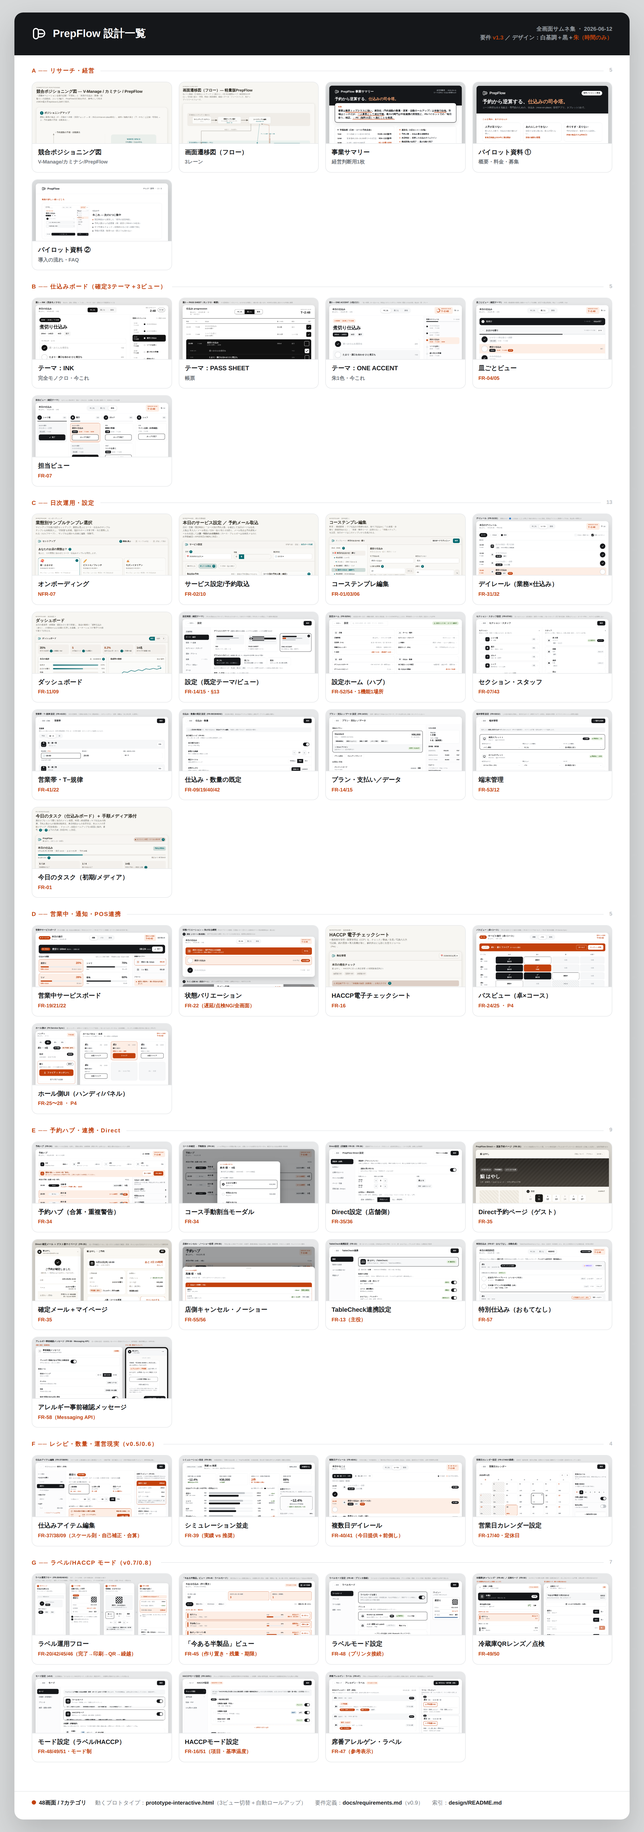
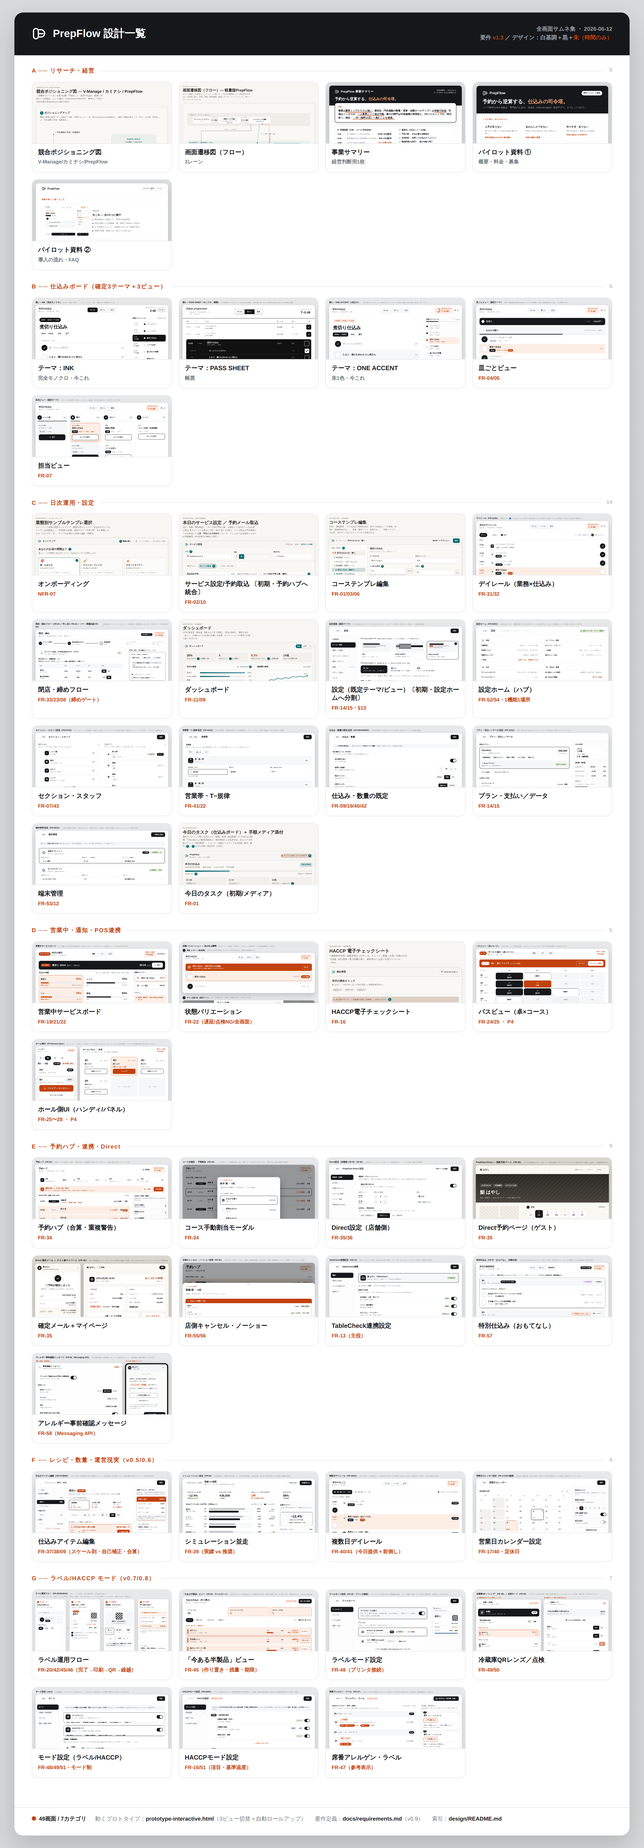
design: 閉店・締めフロー（FR-33/23/08）追加＋索引の世代ラベル注記
- p2-wireframe-close-flow: 締めゲート5ステップ（クローズ点検→衛生記録→
  繰越/廃棄→申し送り→日次サマリー）。FR-33クローズフロー／FR-08パー・廃棄
  記録（繰越/廃棄→FR-09自己補正・FR-42繰越へ環流）／FR-23申し送り（翌日
  サービス設定へ自動表示）を1画面で充足。朝↔夜の運用ループが閉じる
- overview-gallery 49画面に更新、README・requirements §12 に反映
- 世代ラベル注記：service-setup→予約ハブ統合、settings→設定ホーム分割、
  haccp-checklist タグを FR-16 に統一（a/b/c）
- coverage-matrix を更新（✓53/△2/✗3・S優先の未充足ゼロ）

https://claude.ai/code/session_018mZZ112uFbi6TDTQG5iJF9

diff --git a/design/p2-wireframe-close-flow.html b/design/p2-wireframe-close-flow.html
@@ -1,0 +1,166 @@
+<!doctype html>
+<html lang="ja"><head><meta charset="UTF-8"/><meta name="viewport" content="width=device-width, initial-scale=1.0"/>
+<title>閉店・締めフロー（FR-33/23/08）</title>
+<link href="https://api.fontshare.com/v2/css?f[]=satoshi@400,500,700,900&display=swap" rel="stylesheet">
+<style>
+  :root{--ink:#15171a;--g2:#70757b;--g3:#c2c6ca;--g4:#e9ebed;--g5:#f6f7f8;
+        --time:#c2410c;--time-s:#fdeee5;--ok:#3a6a2a;--ok-s:#e4efdd;--font:'Satoshi',sans-serif}
+  *{box-sizing:border-box;margin:0;padding:0}
+  body{font-family:var(--font);background:#e7e8e9;color:var(--ink);-webkit-font-smoothing:antialiased;padding:26px;line-height:1.4}
+  .cap{max-width:1180px;margin:0 auto 12px;display:flex;align-items:baseline;gap:12px}
+  .cap b{font-size:18px}.cap span{color:#8a8a8a;font-size:13px}
+  .tab{max-width:1180px;margin:0 auto;height:812px;background:#fff;border-radius:24px;box-shadow:0 30px 60px rgba(0,0,0,.16);overflow:hidden;display:flex;flex-direction:column}
+  .bar{display:flex;align-items:center;justify-content:space-between;padding:16px 28px;border-bottom:1px solid var(--g4)}
+  .bL h1{font-size:19px;font-weight:900}.bL .sub{font-size:12.5px;color:var(--g2)}
+  .bR{display:flex;align-items:center;gap:12px}
+  .gate{font-size:10.5px;font-weight:900;color:#fff;background:var(--ink);padding:5px 11px;border-radius:999px}
+  .cd{display:flex;align-items:center;gap:8px;background:var(--time-s);border-radius:12px;padding:8px 14px}
+  .cd small{display:block;font-size:10px;color:var(--time);font-weight:700;letter-spacing:.08em}
+  .cd b{font-size:18px;font-weight:900;color:var(--time);font-variant-numeric:tabular-nums}
+  /* stepper (FR-33 = 1本の流れ) */
+  .steps{display:flex;align-items:center;padding:15px 28px;border-bottom:1px solid var(--g4);gap:0}
+  .stp{display:flex;align-items:center;gap:10px}
+  .stp .n{width:30px;height:30px;border-radius:50%;display:grid;place-items:center;font-size:13px;font-weight:900;flex:none;border:2px solid var(--g3);color:var(--g2);background:#fff}
+  .stp.done .n{background:var(--ink);border-color:var(--ink);color:#fff}
+  .stp.now .n{border-color:var(--ink);color:var(--ink);border-width:2.6px}
+  .stp .tx b{font-size:12.5px;font-weight:900;display:block;line-height:1.15}
+  .stp.pend .tx b{color:var(--g3)}
+  .stp .tx small{font-size:9.5px;color:var(--g2)}
+  .stp .n svg{width:15px;height:15px;stroke:#fff;stroke-width:3;fill:none;stroke-linecap:round;stroke-linejoin:round}
+  .seg-ln{flex:1;height:2px;background:var(--g4);margin:0 12px}
+  .seg-ln.done{background:var(--ink)}
+  /* main two columns */
+  .main{flex:1;display:grid;grid-template-columns:1fr 372px;gap:0;overflow:hidden}
+  .col{overflow:auto;padding:18px 24px 22px}
+  .colL{border-right:1px solid var(--g4)}
+  .h2{font-size:13.5px;font-weight:900;display:flex;align-items:center;gap:8px;margin-bottom:4px}
+  .h2 .fr{font-size:9.5px;font-weight:900;color:var(--g2);background:var(--g5);border-radius:999px;padding:3px 8px}
+  .h2 .auto{font-size:9.5px;font-weight:900;color:var(--ok);background:var(--ok-s);border-radius:999px;padding:3px 8px}
+  .lead{font-size:11.5px;color:var(--g2);margin-bottom:12px}
+  .lead b{color:var(--ink)}
+  /* par/waste table (FR-08) */
+  .tbl{border:1.5px solid var(--g4);border-radius:14px;overflow:hidden}
+  .tr{display:grid;grid-template-columns:1.5fr .7fr .7fr .8fr 1.3fr;align-items:center;gap:8px;padding:11px 14px;border-bottom:1px solid var(--g4)}
+  .tr:last-child{border-bottom:none}
+  .tr.hd{background:var(--g5)}
+  .tr.hd span{font-size:10px;font-weight:900;color:var(--g2);letter-spacing:.03em}
+  .tr .nm{font-size:13.5px;font-weight:700}
+  .tr .nm small{display:block;font-size:10px;color:var(--g2);font-weight:500}
+  .tr .num{font-size:13px;font-weight:700;font-variant-numeric:tabular-nums}
+  .tr .left{font-size:13px;font-weight:900;font-variant-numeric:tabular-nums}
+  .tr .left.warn{color:var(--time)}
+  .seg{display:inline-flex;border:1.5px solid var(--g4);border-radius:9px;overflow:hidden}
+  .seg button{border:none;background:#fff;font-family:var(--font);font-size:11px;font-weight:900;padding:7px 10px;cursor:pointer;color:var(--g2);border-right:1.5px solid var(--g4)}
+  .seg button:last-child{border-right:none}
+  .seg button.on{background:var(--ink);color:#fff}
+  .feed{display:flex;align-items:center;gap:8px;font-size:11px;color:var(--g2);background:var(--g5);border-radius:11px;padding:10px 13px;margin-top:10px}
+  .feed b{color:var(--ink)}
+  .feed svg{width:14px;height:14px;stroke:var(--ok);flex:none}
+  .done-sec{display:flex;align-items:center;gap:12px;border:1.5px solid var(--g4);border-radius:13px;padding:12px 15px;margin-bottom:10px;background:#fff}
+  .done-sec .ck{width:28px;height:28px;border-radius:50%;background:var(--ok-s);display:grid;place-items:center;flex:none}
+  .done-sec .ck svg{width:15px;height:15px;stroke:var(--ok);stroke-width:3;fill:none;stroke-linecap:round;stroke-linejoin:round}
+  .done-sec .t b{font-size:13.5px;font-weight:900;display:block}.done-sec .t small{font-size:10.5px;color:var(--g2)}
+  .done-sec .st{margin-left:auto;font-size:10.5px;font-weight:900;color:var(--ok);background:var(--ok-s);border-radius:999px;padding:5px 11px}
+  /* right col: handover note (FR-23) + summary */
+  .card{border:1.5px solid var(--g4);border-radius:14px;padding:15px 16px;margin-bottom:14px}
+  .card.now{border-color:var(--ink)}
+  .chips{display:flex;flex-wrap:wrap;gap:6px;margin:8px 0 4px}
+  .chip{font-size:11px;font-weight:800;background:var(--g5);border:1.5px solid var(--g4);border-radius:999px;padding:5px 11px}
+  .chip b{font-variant-numeric:tabular-nums}
+  .note{border:1.5px dashed var(--g3);border-radius:11px;padding:12px 13px;font-size:12.5px;color:var(--ink);line-height:1.55;min-height:78px;margin-top:8px}
+  .note .ph{color:var(--g3)}
+  .auto-to{display:flex;align-items:center;gap:7px;font-size:10.5px;color:var(--g2);margin-top:9px}
+  .auto-to svg{width:13px;height:13px;stroke:var(--ink);flex:none}
+  .by{display:flex;align-items:center;gap:7px;margin-top:10px}
+  .by .av{width:26px;height:26px;border-radius:50%;background:var(--g5);display:grid;place-items:center;font-size:11px;font-weight:900}
+  .by small{font-size:10.5px;color:var(--g2)}
+  .sum{display:grid;grid-template-columns:1fr 1fr;gap:9px;margin-top:6px}
+  .sm{border:1.5px solid var(--g4);border-radius:11px;padding:10px 12px}
+  .sm small{font-size:10px;color:var(--g2);font-weight:700;display:block}
+  .sm b{font-size:21px;font-weight:900;font-variant-numeric:tabular-nums}
+  .sm b em{font-size:12px;font-style:normal;color:var(--g2);font-weight:700}
+  .sm .lt{color:var(--time)}
+  .exp{display:flex;gap:8px;margin-top:10px}
+  .exp button{flex:1;border:1.5px solid var(--g4);background:#fff;font-family:var(--font);font-size:11.5px;font-weight:900;color:var(--ink);border-radius:9px;padding:9px;cursor:pointer}
+  /* footer */
+  .foot{border-top:1px solid var(--g4);padding:14px 28px;display:flex;align-items:center;justify-content:space-between;background:#fff}
+  .foot small{font-size:11px;color:var(--g2)}
+  .cta{display:inline-flex;align-items:center;gap:9px;background:var(--ink);color:#fff;font-family:var(--font);font-size:14.5px;font-weight:900;border:none;border-radius:13px;padding:13px 24px;cursor:pointer}
+  .cta svg{width:17px;height:17px;stroke:#fff;stroke-width:2.6;fill:none;stroke-linecap:round;stroke-linejoin:round}
+  svg{stroke-width:2.4;fill:none;stroke-linecap:round;stroke-linejoin:round}
+</style></head>
+<body>
+  <div class="cap"><b>閉店・締めフロー（FR-33 ／ 申し送り FR-23 ／ パー・廃棄記録 FR-08）</b><span>1日の締めゲート：クローズチェック→衛生記録→繰越/廃棄→申し送り→日次サマリーを1本の流れで</span></div>
+  <div class="tab">
+
+    <div class="bar">
+      <div class="bL"><h1>閉店・締め</h1><div class="sub">鮨 はやし ・ 6/11(木) 夜の部 ・ 24名 ・ 締めゲート</div></div>
+      <div class="bR"><span class="gate">1日の締めゲート</span><div class="cd"><div><small>CLOSE 22:30</small><b>T＋0:42</b></div></div></div>
+    </div>
+
+    <!-- FR-33: 1本の流れ -->
+    <div class="steps">
+      <div class="stp done"><div class="n"><svg viewBox="0 0 24 24"><path d="M5 12l5 5 9-10"/></svg></div><div class="tx"><b>クローズ点検</b><small>完了 6/6</small></div></div>
+      <div class="seg-ln done"></div>
+      <div class="stp done"><div class="n"><svg viewBox="0 0 24 24"><path d="M5 12l5 5 9-10"/></svg></div><div class="tx"><b>衛生記録(HACCP)</b><small>完了 ・ PDF化済</small></div></div>
+      <div class="seg-ln done"></div>
+      <div class="stp now"><div class="n">3</div><div class="tx"><b>繰越/廃棄</b><small>記録中</small></div></div>
+      <div class="seg-ln"></div>
+      <div class="stp pend"><div class="n">4</div><div class="tx"><b>申し送り</b><small>未</small></div></div>
+      <div class="seg-ln"></div>
+      <div class="stp pend"><div class="n">5</div><div class="tx"><b>日次サマリー</b><small>自動</small></div></div>
+    </div>
+
+    <div class="main">
+
+      <!-- LEFT: par/waste record (FR-08) -->
+      <div class="col colL">
+        <div class="done-sec"><div class="ck"><svg viewBox="0 0 24 24"><path d="M5 12l5 5 9-10"/></svg></div><div class="t"><b>① クローズ点検 ／ ② 衛生記録(HACCP・FR-16)</b><small>消火・施錠・冷蔵庫温度・手洗い記録 … 完了</small></div><span class="st">完了</span></div>
+
+        <div class="h2">③ 本日のパー・廃棄記録 <span class="fr">FR-08</span></div>
+        <div class="lead"><b>予約◯名 → 作った → 余った</b> を記録。余りは<b>繰越（賞味期限内）</b>か<b>廃棄</b>を選択。</div>
+        <div class="tbl">
+          <div class="tr hd"><span>品目</span><span>予約</span><span>作った</span><span>余り</span><span>判定</span></div>
+          <div class="tr"><div class="nm">煮切り<small>全コース合算</small></div><div class="num">24名</div><div class="num">200ml</div><div class="left">65ml</div>
+            <div class="seg"><button class="on">繰越</button><button>廃棄</button></div></div>
+          <div class="tr"><div class="nm">鯛の昆布締め<small>本日限り</small></div><div class="num">24名</div><div class="num">14枚</div><div class="left warn">2枚</div>
+            <div class="seg"><button>繰越</button><button class="on">廃棄</button></div></div>
+          <div class="tr"><div class="nm">一番だし</div><div class="num">24名</div><div class="num">5.0L</div><div class="left">0.4L</div>
+            <div class="seg"><button class="on">繰越</button><button>廃棄</button></div></div>
+          <div class="tr"><div class="nm">穴子のツメ</div><div class="num">24名</div><div class="num">600ml</div><div class="left">120ml</div>
+            <div class="seg"><button class="on">繰越</button><button>廃棄</button></div></div>
+        </div>
+        <div class="feed"><svg viewBox="0 0 24 24"><path d="M21 12a9 9 0 11-3-6.7M21 5v4h-4"/></svg>この実績は<b>自己補正レシピ（FR-09）</b>へ環流し、明日以降の推奨量を調整します。</div>
+        <div class="feed"><svg viewBox="0 0 24 24"><path d="M5 12l5 5 9-10"/></svg>繰越分（煮切り65ml・だし0.4L・ツメ120ml）は<b>翌日の推奨量から自動で差引（FR-42）</b>。</div>
+      </div>
+
+      <!-- RIGHT: handover note (FR-23) + summary -->
+      <div class="col">
+        <div class="h2">④ 申し送り（引き継ぎノート）<span class="fr">FR-23</span></div>
+        <div class="card now">
+          <div style="font-size:11px;font-weight:900;color:var(--g2)">残仕込み（繰越から自動転記）</div>
+          <div class="chips"><span class="chip">煮切り <b>65ml</b></span><span class="chip">一番だし <b>0.4L</b></span><span class="chip">ツメ <b>120ml</b></span></div>
+          <div class="note">明日は<b>貸切8名が17:30追加</b>。穴子は早めに仕込み。<br>2番冷蔵の真空が1袋ふくらみ → 朝に確認。<span class="ph">｜タップで追記…</span></div>
+          <div class="by"><span class="av">親</span><small>記録者：親方（タップで変更）</small></div>
+          <div class="auto-to"><svg viewBox="0 0 24 24"><path d="M5 12h14M13 6l6 6-6 6"/></svg><b style="color:var(--ink)">翌日のサービス設定に自動表示</b>されます</div>
+        </div>
+
+        <div class="h2">⑤ 日次サマリー <span class="auto">自動集計</span></div>
+        <div class="sum">
+          <div class="sm"><small>仕込み達成率</small><b>94<em>%</em></b></div>
+          <div class="sm"><small>遅延タスク</small><b class="lt">1<em>件</em></b></div>
+          <div class="sm"><small>客数</small><b>24<em>名</em></b></div>
+          <div class="sm"><small>廃棄</small><b>2<em>点</em></b></div>
+        </div>
+        <div class="exp"><button>CSV出力</button><button>日報PDF</button></div>
+      </div>
+
+    </div>
+
+    <div class="foot">
+      <small>締めゲート完了で本日をクローズ。繰越・申し送りは明日のボードに反映。<b>未記録があれば確認</b>。</small>
+      <button class="cta"><svg viewBox="0 0 24 24"><path d="M5 12l5 5 9-10"/></svg>締めゲートを完了して退勤</button>
+    </div>
+
+  </div>
+</body></html>

diff --git a/design/overview-gallery.html b/design/overview-gallery.html
@@ -67,14 +67,15 @@
 
     <!-- C daily ops -->
     <div class="sec">
-      <div class="sk"><span class="n">C ── 日次運用・設定</span><span class="ln"></span><span class="ct">13</span></div>
+      <div class="sk"><span class="n">C ── 日次運用・設定</span><span class="ln"></span><span class="ct">14</span></div>
       <div class="grid">
         <div class="card"><div class="thumb"><img src="p0-wireframe-onboarding.png"></div><div class="lab"><b>オンボーディング</b><span class="tag fr">NFR-07</span></div></div>
-        <div class="card"><div class="thumb"><img src="p0-wireframe-service-setup.png"></div><div class="lab"><b>サービス設定/予約取込</b><span class="tag fr">FR-02/10</span></div></div>
+        <div class="card"><div class="thumb"><img src="p0-wireframe-service-setup.png"></div><div class="lab"><b>サービス設定/予約取込 〔初期・予約ハブへ統合〕</b><span class="tag fr">FR-02/10</span></div></div>
         <div class="card"><div class="thumb"><img src="p1-wireframe-template-editor.png"></div><div class="lab"><b>コーステンプレ編集</b><span class="tag fr">FR-01/03/06</span></div></div>
         <div class="card"><div class="thumb"><img src="p1-wireframe-dayrail.png"></div><div class="lab"><b>デイレール（業務×仕込み）</b><span class="tag fr">FR-31/32</span></div></div>
+        <div class="card"><div class="thumb"><img src="p2-wireframe-close-flow.png"></div><div class="lab"><b>閉店・締めフロー</b><span class="tag fr">FR-33/23/08（締めゲート）</span></div></div>
         <div class="card"><div class="thumb"><img src="p1-wireframe-dashboard.png"></div><div class="lab"><b>ダッシュボード</b><span class="tag fr">FR-11/09</span></div></div>
-        <div class="card"><div class="thumb"><img src="p1-wireframe-settings.png"></div><div class="lab"><b>設定（既定テーマ/ビュー）</b><span class="tag fr">FR-14/15・§13</span></div></div>
+        <div class="card"><div class="thumb"><img src="p1-wireframe-settings.png"></div><div class="lab"><b>設定（既定テーマ/ビュー）〔初期・設定ホームへ分割〕</b><span class="tag fr">FR-14/15・§13</span></div></div>
         <div class="card"><div class="thumb"><img src="p1-wireframe-settings-home.png"></div><div class="lab"><b>設定ホーム（ハブ）</b><span class="tag fr">FR-52/54・1機能1場所</span></div></div>
         <div class="card"><div class="thumb"><img src="p1-wireframe-staff-sections.png"></div><div class="lab"><b>セクション・スタッフ</b><span class="tag fr">FR-07/43</span></div></div>
         <div class="card"><div class="thumb"><img src="p1-wireframe-service-periods.png"></div><div class="lab"><b>営業帯・T−規律</b><span class="tag fr">FR-41/22</span></div></div>
@@ -140,7 +141,7 @@
 
   </div>
   <div class="foot">
-    <span><span class="dot"></span><b>48画面 / 7カテゴリ</b></span>
+    <span><span class="dot"></span><b>49画面 / 7カテゴリ</b></span>
     <span>動くプロトタイプ：<b>prototype-interactive.html</b>（3ビュー切替＋自動ロールアップ）</span>
     <span>要件定義：<b>docs/requirements.md</b>（v0.9）</span>
     <span>索引：<b>design/README.md</b></span>

diff --git a/docs/coverage-matrix.md b/docs/coverage-matrix.md
@@ -2,18 +2,20 @@
 
 | 項目 | 内容 |
 |---|---|
-| 対象 | 要件定義 v1.3（FR-01〜58）× design/ 全画面（48画面）|
-| 日付 | 2026-06-12 |
+| 対象 | 要件定義 v1.3（FR-01〜58）× design/ 全画面（49画面）|
+| 日付 | 2026-06-12（updated）|
 | 目的 | 要件と画面設計のトレーサビリティ確認。**抜け漏れ（未ワイヤー化FR）**と**重複（機構共有・世代重複）**の棚卸し |
 | 凡例 | ✓=専用ワイヤーあり ／ △=別画面に内包・テーマ/アンカーで代替（専用画面なし）／ ✗=ワイヤー無し |
+
+> **更新（2026-06-12）**：推奨アクション①②を反映。**「閉店・締めフロー」ワイヤー新規作成**（`p2-wireframe-close-flow`）で **FR-33/23/08 を充足**。索引の**世代ラベル注記（a/b/c）も反映済み**。下表・サマリーは反映後の値。
 
 ---
 
 ## 0. サマリー（結論）
 
-- **FR充足率：50/58 が専用ワイヤーあり（✓）。** 残り8件は △4・✗4。
-- **致命的な抜けは無し。** 未充足は全て **優先度C または 後段フェーズ（P2.5/P3）** に集中。例外は下記「閉店クラスタ」。
-- **最大の単一ギャップ＝「閉店・締めフロー」**。FR-33（クローズフロー・**S**/P2）／FR-23（引き継ぎノート・P2）／FR-08（パー/廃棄記録・**S**/P1）の3つが**1枚も専用画面を持たない**（dayrailにアンカー言及のみ）。→ **「閉店・締め」ワイヤー1枚で3件まとめて解消可能**。
+- **FR充足率：53/58 が専用ワイヤーあり（✓）。** 残り5件は △2・✗3。
+- **致命的な抜けは無し。** 未充足は全て **優先度C かつ 後段フェーズ（P2.5/P3）または将来** に集中。
+- **～~最大の単一ギャップ＝「閉店・締めフロー」~~ → 解消済み。** FR-33（クローズフロー・S/P2）／FR-23（引き継ぎノート・P2）／FR-08（パー/廃棄記録・S/P1）を **`p2-wireframe-close-flow` 1枚で一括充足**（締めゲート＝5ステップ：クローズ点検→衛生記録→繰越/廃棄→申し送り→日次サマリー）。朝↔夜の運用ループが画面上で閉じた。
 - **「重複FR」は実害なし。** ID重複（同番号の二重定義）はゼロ。見かけ上の重複は全て **(a) 意図した機構共有**（追い仕込みエンジン／WasteLog／席別アレルギー供給源）か **(b) 画面の世代置換**（初期案→確定テーマ）であり、要件本文に注記済み。本書で一覧化。
 
 ---
@@ -29,7 +31,7 @@
 | FR-05 | チェックオフ→ロールアップ | M/P0 | ✓ | redesign2-3-oneaccent, view-dishes |
 | FR-06 | 逆算タイムライン | M/P1 | ✓ | oneaccent, todaytask, template-editor |
 | FR-07 | 担当アサイン | S/P1 | ✓ | view-staff, staff-sections |
-| FR-08 | パー/廃棄の記録 | **S/P1** | △ | simulation・prepitem-editor・cancellationにWasteLog入力が内包。**専用「作った/余った」記録UIは未独立** |
+| FR-08 | パー/廃棄の記録 | **S/P1** | ✓ | close-flow（③本日のパー・廃棄記録：予約→作った→余った→繰越/廃棄）。simulation・prepitem-editorも参照 |
 | FR-09 | 自己補正レシピ | S/P2 | ✓ | prepitem-editor, prep-defaults, simulation, dashboard |
 | FR-10 | 予約メール取込 | S/P2 | ✓ | service-setup, settings |
 | FR-11 | ダッシュボード/分析 | S/P1-2 | ✓ | dashboard, todaytask |
@@ -44,7 +46,7 @@
 | FR-20 | 仕込みラベル自動発行 | C/P2.5 | ✓ | label-flow |
 | FR-21 | 内蔵タイマー | S/P2 | ✓ | service-board |
 | FR-22 | アラート3段階 | S/P2 | ✓ | service-board, state-alerts, service-periods |
-| FR-23 | 引き継ぎノート | C/P2 | ✗ | dayrailのクローズタスクに言及のみ。**申し送り作成の専用画面なし** |
+| FR-23 | 引き継ぎノート | C/P2 | ✓ | close-flow（④申し送り：残仕込み自動転記＋入力＋記録者・翌日サービス設定へ自動表示）|
 | FR-24 | パスビュー（卓×コース） | C/P4 | ✓ | passview |
 | FR-25 | ファイア／ホールド | C/P4 | ✓ | passview, hall-handy |
 | FR-26 | 席番アレルギー/VIPチップ | C/P4 | ✓ | hall-handy |
@@ -54,7 +56,7 @@
 | FR-30 | コース版管理 | C/P2.5 | ✗ | **専用画面なし** |
 | FR-31 | 業務フロー（デイレール） | S/P1.5 | ✓ | dayrail |
 | FR-32 | 統合表示 | S/P1.5 | ✓ | dayrail |
-| FR-33 | クローズフロー | **S/P2** | △ | dayrailに閉店アンカーとして登場。**ガイド付き締め画面は未独立** |
+| FR-33 | クローズフロー | **S/P2** | ✓ | close-flow（締めゲート＝5ステップを1本の流れで）。dayrailにも閉店アンカー |
 | FR-34 | 予約ハブ | S/P2 | ✓ | reservation-hub, course-assign |
 | FR-35 | Direct予約ページ | C/P3.5 | ✓ | direct-booking, direct-settings, direct-mypage |
 | FR-36 | 直販アロットメント在庫 | C/P3.5 | ✓ | direct-settings |
@@ -81,7 +83,7 @@
 | FR-57 | おもてなし→特別仕込み・VIP | S/P2-3 | ✓ | special-prep |
 | FR-58 | アレルギー事前確認メッセージ | C/P3 | ✓ | allergy-message |
 
-**集計：✓ 50 ／ △ 4（FR-08/12/33/44）／ ✗ 4（FR-18/23/29/30）**
+**集計（更新後）：✓ 53 ／ △ 2（FR-12/44）／ ✗ 3（FR-18/29/30）**　※FR-08/23/33 は close-flow で充足
 
 ---
 
@@ -91,18 +93,19 @@
 
 | FR | 状態 | 優先/Ph | 判定・推奨 |
 |---|:--:|---|---|
-| **FR-33 クローズフロー** | △ | **S/P2** | ⚠ **要対応候補①**。S優先なのに専用画面なし。下記「閉店クラスタ」の中核 |
-| **FR-08 パー/廃棄記録** | △ | **S/P1** | ⚠ **要対応候補②**。P1のS。自己補正(FR-09)の入力源。記録UIが simulation 等に溶けており独立した「作った/余った1枚」がない |
-| FR-23 引き継ぎノート | ✗ | C/P2 | 閉店クラスタの一部。FR-33画面に内包すれば同時解消 |
+| ~~FR-33 クローズフロー~~ | ✓ | S/P2 | ✅ **解消済み**（close-flow） |
+| ~~FR-08 パー/廃棄記録~~ | ✓ | S/P1 | ✅ **解消済み**（close-flow ③） |
+| ~~FR-23 引き継ぎノート~~ | ✓ | C/P2 | ✅ **解消済み**（close-flow ④） |
 | FR-12 複数厨房ボード | △ | C/P2 | devices設定で足りる。分割ボードはP2着手時に検討で可 |
 | FR-44 紙リスト印刷 | △ | C/P2.5 | PASS SHEETテーマが実体。印刷操作はモーダルで足り、独立画面は不要寄り |
 | FR-18 多言語 | ✗ | C/P3 | 将来。表示設定の枠だけで現状可 |
 | FR-29 サービスリプレイ | ✗ | C/P3 | 将来。FR-11分析の拡張で後付け |
 | FR-30 コース版管理 | ✗ | C/P2.5 | template-editorの「版」操作として後付け可 |
 
-### ★最大ギャップ＝「閉店・締めフロー」クラスタ（FR-33 + FR-23 + FR-08）
-要件§4.2 FR-33は「クローズチェック→HACCP(FR-16)→引き継ぎ(FR-23)→日次サマリー」を**1本の流れ**と定義。だが現状、この“1日の締めゲート”を見せる画面が無い（dayrailに1行アンカーがあるのみ）。
-**推奨：「閉店・締めフロー」ワイヤー1枚を新規作成**すれば、FR-33（締めゲート）／FR-23（申し送り作成）／FR-08（本日のパー/廃棄記録）を**同時に視覚化**でき、S優先の穴2件＋C1件を一括で埋められる。朝（onboarding/service-setup）↔夜（締め）の運用ループが画面上で閉じる。
+> 残る △2・✗3 は **全て優先度C＋後段/将来**。新規の独立画面は不要寄り（各画面の付随UI：モーダル/タブ/設定枠で後付け可）。
+
+### ✅ 解消済み：「閉店・締めフロー」クラスタ（FR-33 + FR-23 + FR-08）
+要件§4.2 FR-33の「クローズチェック→HACCP(FR-16)→引き継ぎ(FR-23)→日次サマリー」を**1本の流れ**として `p2-wireframe-close-flow` に実装。締めゲート＝5ステップのステッパー（FR-33）＋本日のパー・廃棄記録テーブル（FR-08・繰越/廃棄→FR-09/42へ環流）＋申し送りノート（FR-23・翌日サービス設定へ自動表示）＋日次サマリー。**S優先の穴2件＋C1件を1枚で一括充足**。朝（onboarding/service-setup）↔夜（close-flow）の運用ループが画面上で閉じた。
 
 ---
 
@@ -132,22 +135,22 @@
 
 ---
 
-## 4. ドキュメント整合の小修正リスト（任意・低リスク）
+## 4. ドキュメント整合の小修正リスト（✅ 反映済み）
 
-| # | 箇所 | 現状 | 推奨 |
+| # | 箇所 | 対応 | 状態 |
 |---|---|---|---|
-| a | design/README「確定テーマの画面」 | p1-wireframe-settings を現役扱い | 「初期版・settings-homeに置換」と注記 |
-| b | design/README, 要件§12 | service-setup を現役扱い | 「reservation-hub(FR-34)へ統合」と注記 |
-| c | 要件§12 haccp-checklist | FR-16/51 表記 | READMEはFR-16のみ。どちらかに統一（温度記録の有無で判断） |
+| a | design/README, 要件§12, gallery | p1-wireframe-settings に「初期版・設定ホーム(FR-52)＋5サブへ分割置換」注記 | ✅ |
+| b | design/README, 要件§12, gallery | p0-wireframe-service-setup に「初期版・予約ハブ(FR-34)へ統合」注記 | ✅ |
+| c | 要件§12 haccp-checklist | FR-16/51 → **FR-16** に統一（温度記録FR-51は haccp-settings/modes-settings 側）| ✅ |
 
-> いずれも軽微。画面・要件の**内容**は整合しており、索引上の「世代ラベル」を足すと親切、という範囲。
+> 画面・要件の**内容**は整合済み。世代ラベルを索引3箇所（README／§12／gallery）に付与し、旧世代画面の位置づけを明示した。
 
 ---
 
-## 5. 推奨アクション（優先順）
+## 5. 推奨アクション（進捗）
 
-1. **「閉店・締めフロー」ワイヤー新規1枚**（FR-33/23/08 を一括充足）。S優先の穴を埋め、朝↔夜の運用ループを画面で閉じる。← 最も費用対効果が高い
-2. （任意）索引に世代ラベル注記（上記4-a/b/c）。
-3. P2.5/P3着手時に FR-30/29/18/12/44 を各画面の付随UI（モーダル/タブ/設定枠）として後付け。**新規の独立画面は不要**寄り。
+1. ✅ **完了**：「閉店・締めフロー」ワイヤー新規1枚（`p2-wireframe-close-flow`／FR-33/23/08 を一括充足）。
+2. ✅ **完了**：索引に世代ラベル注記（上記4-a/b/c）。
+3. （残）P2.5/P3着手時に FR-30/29/18/12/44 を各画面の付随UI（モーダル/タブ/設定枠）として後付け。**新規の独立画面は不要**寄り。
 
-> 結論：**v1.3 の要件×画面はおおむね整合**（50/58が専用ワイヤー、残りも後段・任意中心）。実務上の唯一の“通すべき1枚”は**閉店・締めフロー**。
+> 結論：**v1.3 の要件×画面は整合**（53/58が専用ワイヤー、残り5件は全て優先度C＋後段/将来）。S優先の未充足はゼロになった。

diff --git a/design/README.md b/design/README.md
@@ -16,7 +16,7 @@
 
 | 成果物 | ファイル | 内容 |
 |---|---|---|
-| **設計一覧（全画面サムネ集）** | `overview-gallery.html/.png` | **48画面 / 7カテゴリ**を1枚に。各サムネにラベル＋FRタグ |
+| **設計一覧（全画面サムネ集）** | `overview-gallery.html/.png` | **49画面 / 7カテゴリ**を1枚に。各サムネにラベル＋FRタグ |
 
 ## 1. 図版（リサーチ・全体設計）
 
@@ -30,7 +30,7 @@
 | 画面 | ファイル | 対応FR |
 |---|---|---|
 | オンボーディング（業態テンプレ選択） | `p0-wireframe-onboarding.html/.png` | NFR-07 |
-| 本日のサービス設定／予約メール取込 | `p0-wireframe-service-setup.html/.png` | FR-02/10 |
+| 本日のサービス設定／予約メール取込 〔初期版・予約ハブ(FR-34)へ統合〕 | `p0-wireframe-service-setup.html/.png` | FR-02/10 |
 | 今日のタスク（仕込みボード） | `p0-wireframe-todaytask.html/.png` | FR-01/03/05/06/11/17 |
 | コーステンプレ編集 | `p1-wireframe-template-editor.html/.png` | FR-01/03/06 |
 | ダッシュボード | `p1-wireframe-dashboard.html/.png` | FR-11/09/17 |
@@ -54,7 +54,7 @@
 | 状態バリエーション（遅延／点検NG／全画面） | `p2-wireframe-state-alerts.html/.png` | FR-22（アラート3段階） |
 | パスビュー（卓×コース） | `p4-wireframe-passview.html/.png` | FR-24/25/27（P4 Service Sync） |
 | ホール側UI（ハンディ＋タッチパネル） | `p4-wireframe-hall-handy.html/.png` | FR-25/26/27/28（P4 Service Sync） |
-| 設定画面 | `p1-wireframe-settings.html/.png` | FR-14/15/10・§13テーマ切替・T−規律既定値 |
+| 設定画面 〔初期版・設定ホーム(FR-52)＋5サブ画面へ分割置換〕 | `p1-wireframe-settings.html/.png` | FR-14/15/10・§13テーマ切替・T−規律既定値 |
 | デイレール（業務×仕込み 1日ビュー） | `p1-wireframe-dayrail.html/.png` | FR-31/32（業務フローを同じT−軸に混在） |
 | Direct予約ページ（ゲスト直販動線） | `p3-wireframe-direct-booking.html/.png` | FR-35（コース事前選択・アレルギー・事前決済） |
 | 予約ハブ（複数ソース合算・重複警告） | `p2-wireframe-reservation-hub.html/.png` | FR-34 |
@@ -82,6 +82,7 @@
 | TableCheck連携設定 | `p3-wireframe-tablecheck-settings.html/.png` | FR-13 |
 | 特別仕込み（おもてなし→自動生成） | `p2-wireframe-special-prep.html/.png` | FR-57 |
 | アレルギー事前確認メッセージ（店側設定＋ゲストLINE） | `p3-wireframe-allergy-message.html/.png` | FR-58（Messaging API・参考確認） |
+| 閉店・締めフロー（締めゲート＋パー/廃棄＋申し送り） | `p2-wireframe-close-flow.html/.png` | FR-33/23/08（1日の締めゲート・FR-09/42へ環流） |
 
 ---
 

diff --git a/docs/requirements.md b/docs/requirements.md
@@ -402,7 +402,7 @@ Restaurant ─┬─ Section ─── Staff
 | 今日のタスク（仕込みボード）＋メディア | `design/p0-wireframe-todaytask.html` | FR-01/03/05/06/11/17 |
 | コーステンプレ編集 | `design/p1-wireframe-template-editor.html` | FR-01/03/06 |
 | ダッシュボード | `design/p1-wireframe-dashboard.html` | FR-11/09/17 |
-| HACCP電子チェックシート（HACCPモード） | `design/p2-wireframe-haccp-checklist.html` | FR-16/51 |
+| HACCP電子チェックシート（HACCPモード） | `design/p2-wireframe-haccp-checklist.html` | FR-16 |
 | 仕込みボード リデザイン3案（初期） | `design/redesign-A-bigcard.html` / `redesign-B-kanban.html` / `redesign-C-focus.html` | FR-04/05 |
 | 仕込みボード 確定3テーマ（INK/帳票/朱1色） | `design/redesign2-1-ink.html` / `redesign2-2-passsheet.html` / `redesign2-3-oneaccent.html` | §13・FR-04/05 |
 | 営業中サービスボード | `design/p2-wireframe-service-board.html` | FR-19/21/22 |
@@ -439,8 +439,10 @@ Restaurant ─┬─ Section ─── Staff
 | TableCheck連携設定 | `design/p3-wireframe-tablecheck-settings.html` | FR-13 |
 | 特別仕込み（おもてなし→自動生成） | `design/p2-wireframe-special-prep.html` | FR-57 |
 | アレルギー事前確認メッセージ（店側設定＋ゲストLINE） | `design/p3-wireframe-allergy-message.html` | FR-58（Messaging API） |
+| 閉店・締めフロー（締めゲート＋パー/廃棄＋申し送り） | `design/p2-wireframe-close-flow.html` | FR-33/23/08（→FR-09/42へ環流） |
 
-> 成果物の全体インデックスは `design/README.md` を参照。
+> 成果物の全体インデックスは `design/README.md` を参照。整合チェック（FR×画面トレーサビリティ）は `coverage-matrix.md`。
+> 〔世代注記〕`p0-wireframe-service-setup`（FR-02）は予約ハブ`reservation-hub`（FR-34）へ統合済みの初期版。`p1-wireframe-settings` は設定ホーム`settings-home`（FR-52）＋5サブ画面へ分割置換した初期版。`redesign-A/B/C` は確定3テーマ`redesign2-*` の探求初期案。
 
 ---
 
